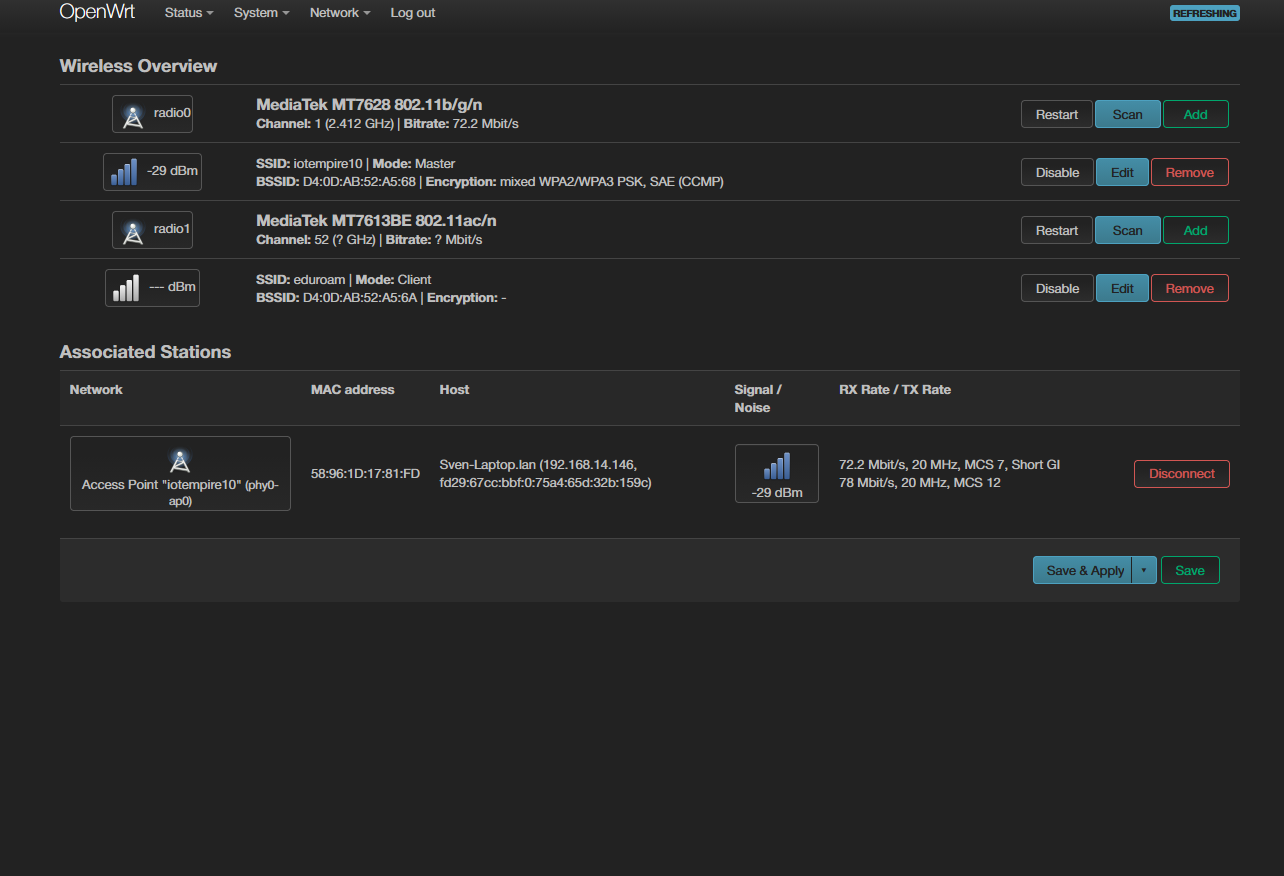
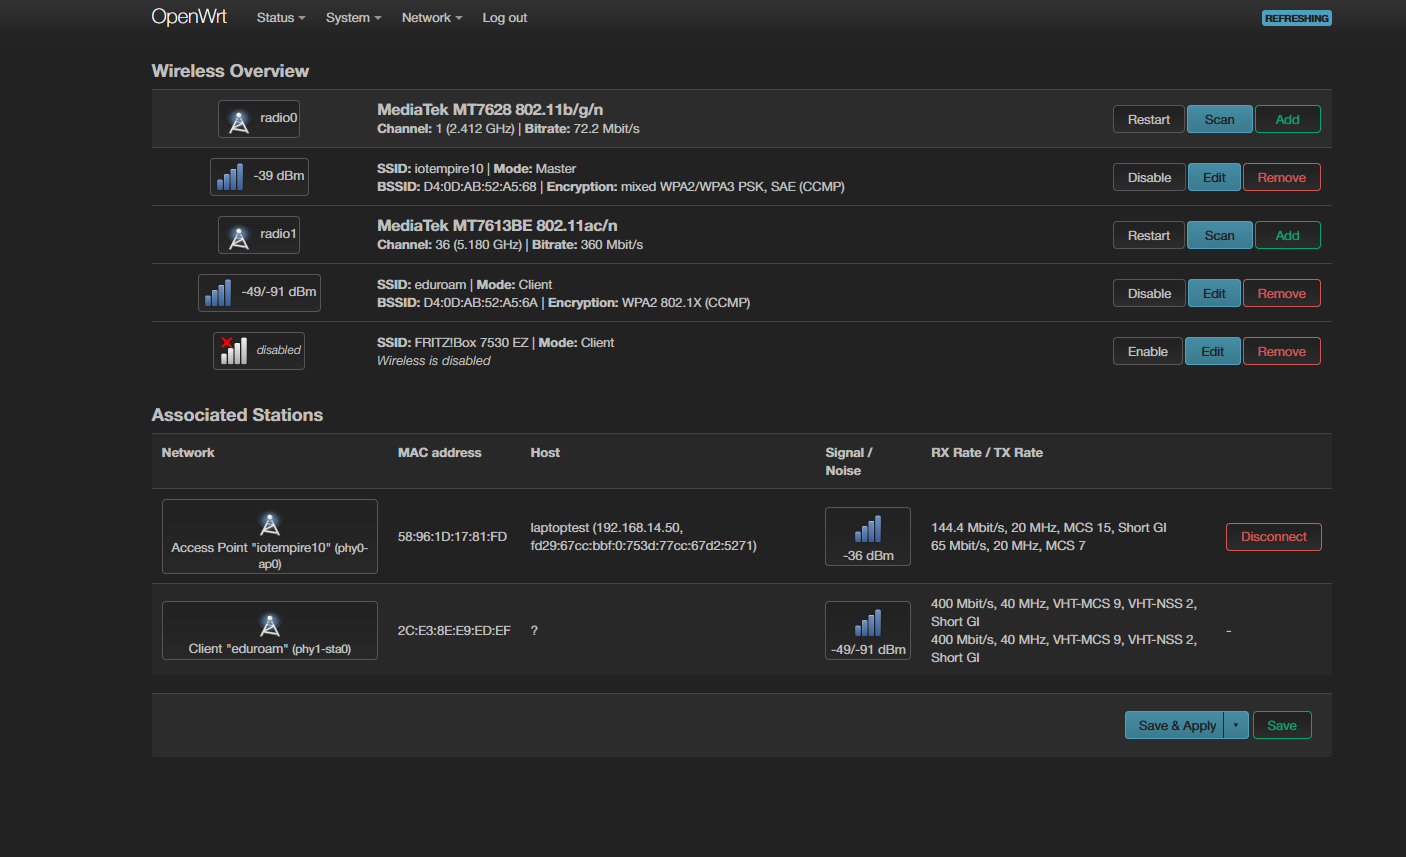
Module03 in class

diff --git a/Module03/router_node.py b/Module03/router_node.py
@@ -1,0 +1,39 @@
+import time
+from umqtt.simple import MQTTClient
+
+BROKER = "192.168.14.1"
+POD = "pod10"
+
+UPTIME_TOPIC = (POD + "/router/uptime").encode()
+SET_TOPIC = (POD + "/router/set").encode()
+
+def on_message(topic, payload):
+    print("Command received on {}: {}".format(
+        topic.decode(), payload.decode()
+    ))
+
+client = MQTTClient(
+    client_id=(POD + "-router-node").encode(),
+    server=BROKER,
+    port=1883,
+    keepalive=30,
+)
+client.set_callback(on_message)
+client.connect()
+client.subscribe(SET_TOPIC)
+
+print("Connected to MQTT broker at {}:1883".format(BROKER))
+print("Subscribed to {}".format(SET_TOPIC.decode()))
+
+last_publish = time.ticks_ms()
+
+while True:
+    client.check_msg()
+
+    now = time.ticks_ms()
+    if time.ticks_diff(now, last_publish) >= 1000:
+        uptime_seconds = time.ticks_ms() // 1000
+        client.publish(UPTIME_TOPIC, str(uptime_seconds).encode())
+        last_publish = now
+
+    time.sleep_ms(100)

diff --git a/Module03/README.md b/Module03/README.md
@@ -1,0 +1,72 @@
+# Module 03
+
+
+## Overlay plan — the underlay/overlay sketch, the overlay addresses, the lighthouse, the Node-RED host, the MQTT path, and the note to Mara.
+
+## Study log — what you actually needed, what surprised you, the LLM answers you checked. One pod member keeps it; the others link to it and add one sentence.
+
+## Bundle notes — what the bundle contains and where it went. No keys, no certificates, no credentials.
+
+## Discussion log — one line per discussion: who listened, what they asked.
+
+## Remote proof — the ping/ssh output from another network, and the Node-RED URL.
+
+## MQTT through the overlay — broker address, topics, the flow, the command that changed an output.
+
+## Round 01
+
+Nebula-IP-Adresse: 10.100.0.20
+
+## Round 2
+link to Jan, Jan screenshot
+
+## Round 4
+link Round4-network_plan.png
+
+1. Underlay connections
+Museum: The sculpture and broker leave the museum network through the campus router/firewall or NAT. There is no public inbound port forward.
+Campus: The Node-RED cluster uses the HSBI underlay network.
+Home/mobile: Mara's laptop may connect through home Wi-Fi or mobile/DSL NAT.
+Hotel: Her laptop appears behind hotel NAT and may receive no public inbound address.
+These underlay networks remain independent. The Nebula tunnel is carried through ordinary Internet traffic.
+
+2. Overlay connections
+Nebula provides private virtual addresses and an encrypted L3 tunnel. The lighthouse stores peer information and assists with NAT traversal. It is not the MQTT broker, does not receive application MQTT data in normal direct operation, and is not required to be installed on every device.
+
+3. OSI-layer overview
+Tunnel start – pod router: L1 Physical/L2 Ethernet or Wi-Fi, L3 IP routing and NAT, and L4 UDP for the Nebula underlay transport. Nebula encrypts and encapsulates overlay IP packets.
+Underlay network: L1/L2 carry the physical link, while L3 routes private and public IP packets. NAT changes source addresses but normally does not need to open an inbound port.
+Nebula overlay: L3 provides virtual addresses and routing, while encryption protects the encapsulated packets.
+MQTT connection: L4 TCP port 1883, with MQTT at L7 carrying the topic and command.
+Tunnel end – Node-RED host: Nebula terminates the tunnel at L3, decrypts the packet, and forwards it to the MQTT/Node-RED application on L7.
+Application path: Sculpture → pod LAN MQTT broker → router Nebula interface → Node-RED Nebula peer → Node-RED flow, and in reverse for commands.
+
+4. Overlay, lighthouse and instructor explanation
+An overlay network is a virtual private network built on top of existing physical networks. It gives devices private addresses and encrypted tunnels without changing their underlay network or requiring public inbound firewall ports.
+
+The lighthouse introduces peers and helps them determine public and NAT addresses. If UDP hole punching establishes a direct connection, traffic does not pass through the lighthouse. If peers cannot establish a direct path, the lighthouse may relay traffic instead.
+
+The instructor prepared the Nebula CA, signed node certificates, private keys, lighthouse configuration, DNS, and firewall rules. To repeat this at another site, create a new host certificate and key signed by the same CA, deploy the Nebula bundle and config, configure routing/firewall rules, and permit the required peer groups.
+
+5. Answer to Mara Voss
+Mara, you can update and monitor the sculpture without asking the museum IT team to open an inbound firewall port. The sculpture uses the local MQTT broker, and the pod router creates a secure private network connection to the Node-RED dashboard. The router and the Node-RED host appear to each other as private Nebula addresses, even when both networks use NAT. We did not change or expose the museum firewall, public IP configuration, or inbound router rules. You can now read status and send one MQTT command while Mara or another authorized person is elsewhere. Mara does not need a museum server account; a Nebula certificate and key belong to the machine. The limitation is that both ends must run a Nebula client, and a connection relayed through the lighthouse can be slower than a direct or local LAN connection.
+
+6. Study log
+Nebula-manager provides a unified CLI for managing multiple Nebula servers and certificates, while Tailscale adds a managed identity-based control plane, device administration, ACLs, and easy sharing. NetBird provides identity-based, WireGuard-based zero-trust access with self-hosting options, SSO, MFA, and granular network policies. This class runs an independent Nebula CA so students learn certificate issuance and mesh security directly and do not depend on an external account or control service.
+
+Bundle notes
+The bundle contains the CA certificate, the pod's host certificate, the host private key, and config.yml. The certificates and key belong in /etc/nebula/ on the router, while the private key must have mode 600. The bundle is a credential and should never be added to Git or shared in screenshots or chat.
+
+## Round 5
+
+connecting to the router directly is way faster than connecting via nebula
+
+## Round 6
+see pictures
++ node red picture at jans to see the recieved messages (seconds since when it runs)
+
+## Learning Goals
+
+## Reflection 1
+
+[Reflection 1](../Reflections/ref01.md)

diff --git a/Module02/README.md b/Module02/README.md
@@ -1,9 +1,21 @@
 # Module 2
 
+## Network plan — the sketch, the subnet calculation, the SSID/channel, and the pod/group ID (pod<NN> / Gruppe ).
+## Router baseline — model, OpenWrt version, LAN/WAN addresses, MACs, SSH access, extroot status, broker status, open ports. No passwords, no eduroam credentials.
+## Study log — the running log: the theory you actually needed, the commands that surprised you, and the LLM answers you checked. This is not an essay and not a separate study phase.
+## Discussion log — one line per discussion: who listened, what they asked, what you changed. This is personal; the shared study log is still one per pod.
+## Vocabulary tracker — the Module 2 vocabulary table, copied with two extra columns: ✓ and Link / evidence. See the reference at the end for how to fill it.
+## Captures — the pcap or the tshark/tcpdump -A text, and what each protocol proves.
+## NAT and port forwarding — the rule, the two-sided capture, and the explanation.
+## Take it home — the upstream switch and the evidence that the router still works.
+
+
+## Disclaimer
+For this module we made the whole setup on my laptop, so I will mostly supply the screenshots as evidence of our progress, while Jan will mostly provide the correspondings texts.
+
 ## Router Baseline
-Jan has documented our progress of setting up the router:
 [a link]()
-I will mostly supply the the screenshots, because we worked on my laptop.
+
 
 ## Round 1: Flash OpenWrt — from factory to your router
 
@@ -27,58 +39,34 @@ link zu tcpdumb md
 ## Round 6
 link zu module 02 readme jan
 
+## Round 7
+We tried to follow the insctructions but failed at the step to set wan active and read the wan ip adress. You con see in the round 7 pictures.
+
+As a personal experience i already did port forwarding for a personal roleplaying/pen-and-paper session with friends, so they could connect with their computers to mine via FoundryVTT.
 
 ## Round 8
 For evidence look at the following pictures:
 
+## Round 9
+I would run upstream OpenWrt on a router I depend on when it is explicitly supported, there is a reliable recovery method, and I can maintain regular updates and backups. I would avoid it for critical use if a required hardware feature is unsupported or no tested recovery procedure exists. The extra control is worthwhile for a lab or secondary router, while vendor firmware may be preferable for someone who needs integrated support and a guaranteed working telephone or Wi-Fi feature.
+
+Extroot and installing packages through the CLI would be impossible or much harder with locked vendor firmware, as they require an accessible package manager and writable overlay configuration. I would miss vendor-specific features such as Cudy's travel-router mode, automatic firmware support, or the vendor mobile application.
 
 
 ## Learning Goals
 
-> **How to use the learning goals.** Copy the module's learning goals from the course workbook into the block below. Keep the `LG1`, `LG2`, … IDs and a one-word keyword. In each task, write `Proves: LG2` (or link to `[LG2](#lg2)`) so you can find the evidence quickly at checkpoint time. In the **Evidence** line under each goal, link to the task that proves it.
+## Learning Goal 1
+Look at Router Baseline and Round 1, 4, 6
 
-<a id="lg1"></a>
-### LG1 — `<keyword>`
+## Learning Goal 2
+Look at Round 5
 
-<copy the goal here>
+## Learning Goal 3
+Round 1-4, 8
 
-**Evidence:** [Task 1](#task-1)
+## Learning Goal 4
+Look at Round 5
 
-<a id="lg2"></a>
-### LG2 — `<keyword>`
-
-<copy the goal here>
-
-**Evidence:** [Task 2](#task-2)
-
-<a id="lg3"></a>
-### LG3 — `<keyword>`
-
-<copy the goal here>
-
-**Evidence:** [Task 3](#task-3)
-
-<a id="task-1"></a>
-## Task 1 — `<short title>`
-
-**Proves:** [LG1](#lg1)
-
-This task was executed by myself.
-
-<a id="task-2"></a>
-## Task 2 — `<short title>`
-
-**Proves:** [LG2](#lg2)
-
-This task was executed by my partner. The implementation was about ...
-It is [here](https://github.com/partner/iot-portfolio/Module02/README.md#task-2).
-
-<a id="task-3"></a>
-## Task 3 — `<short title>`
-
-**Proves:** [LG3](#lg3)
-
-...
 
 ## Reflection 2
 

diff --git a/Module04/README.md b/Module04/README.md
@@ -1,0 +1,9 @@
+# Module 1
+
+## Round 01
+
+## Learning Goals
+
+## Reflection 1
+
+[Reflection 1](../Reflections/ref01.md)
